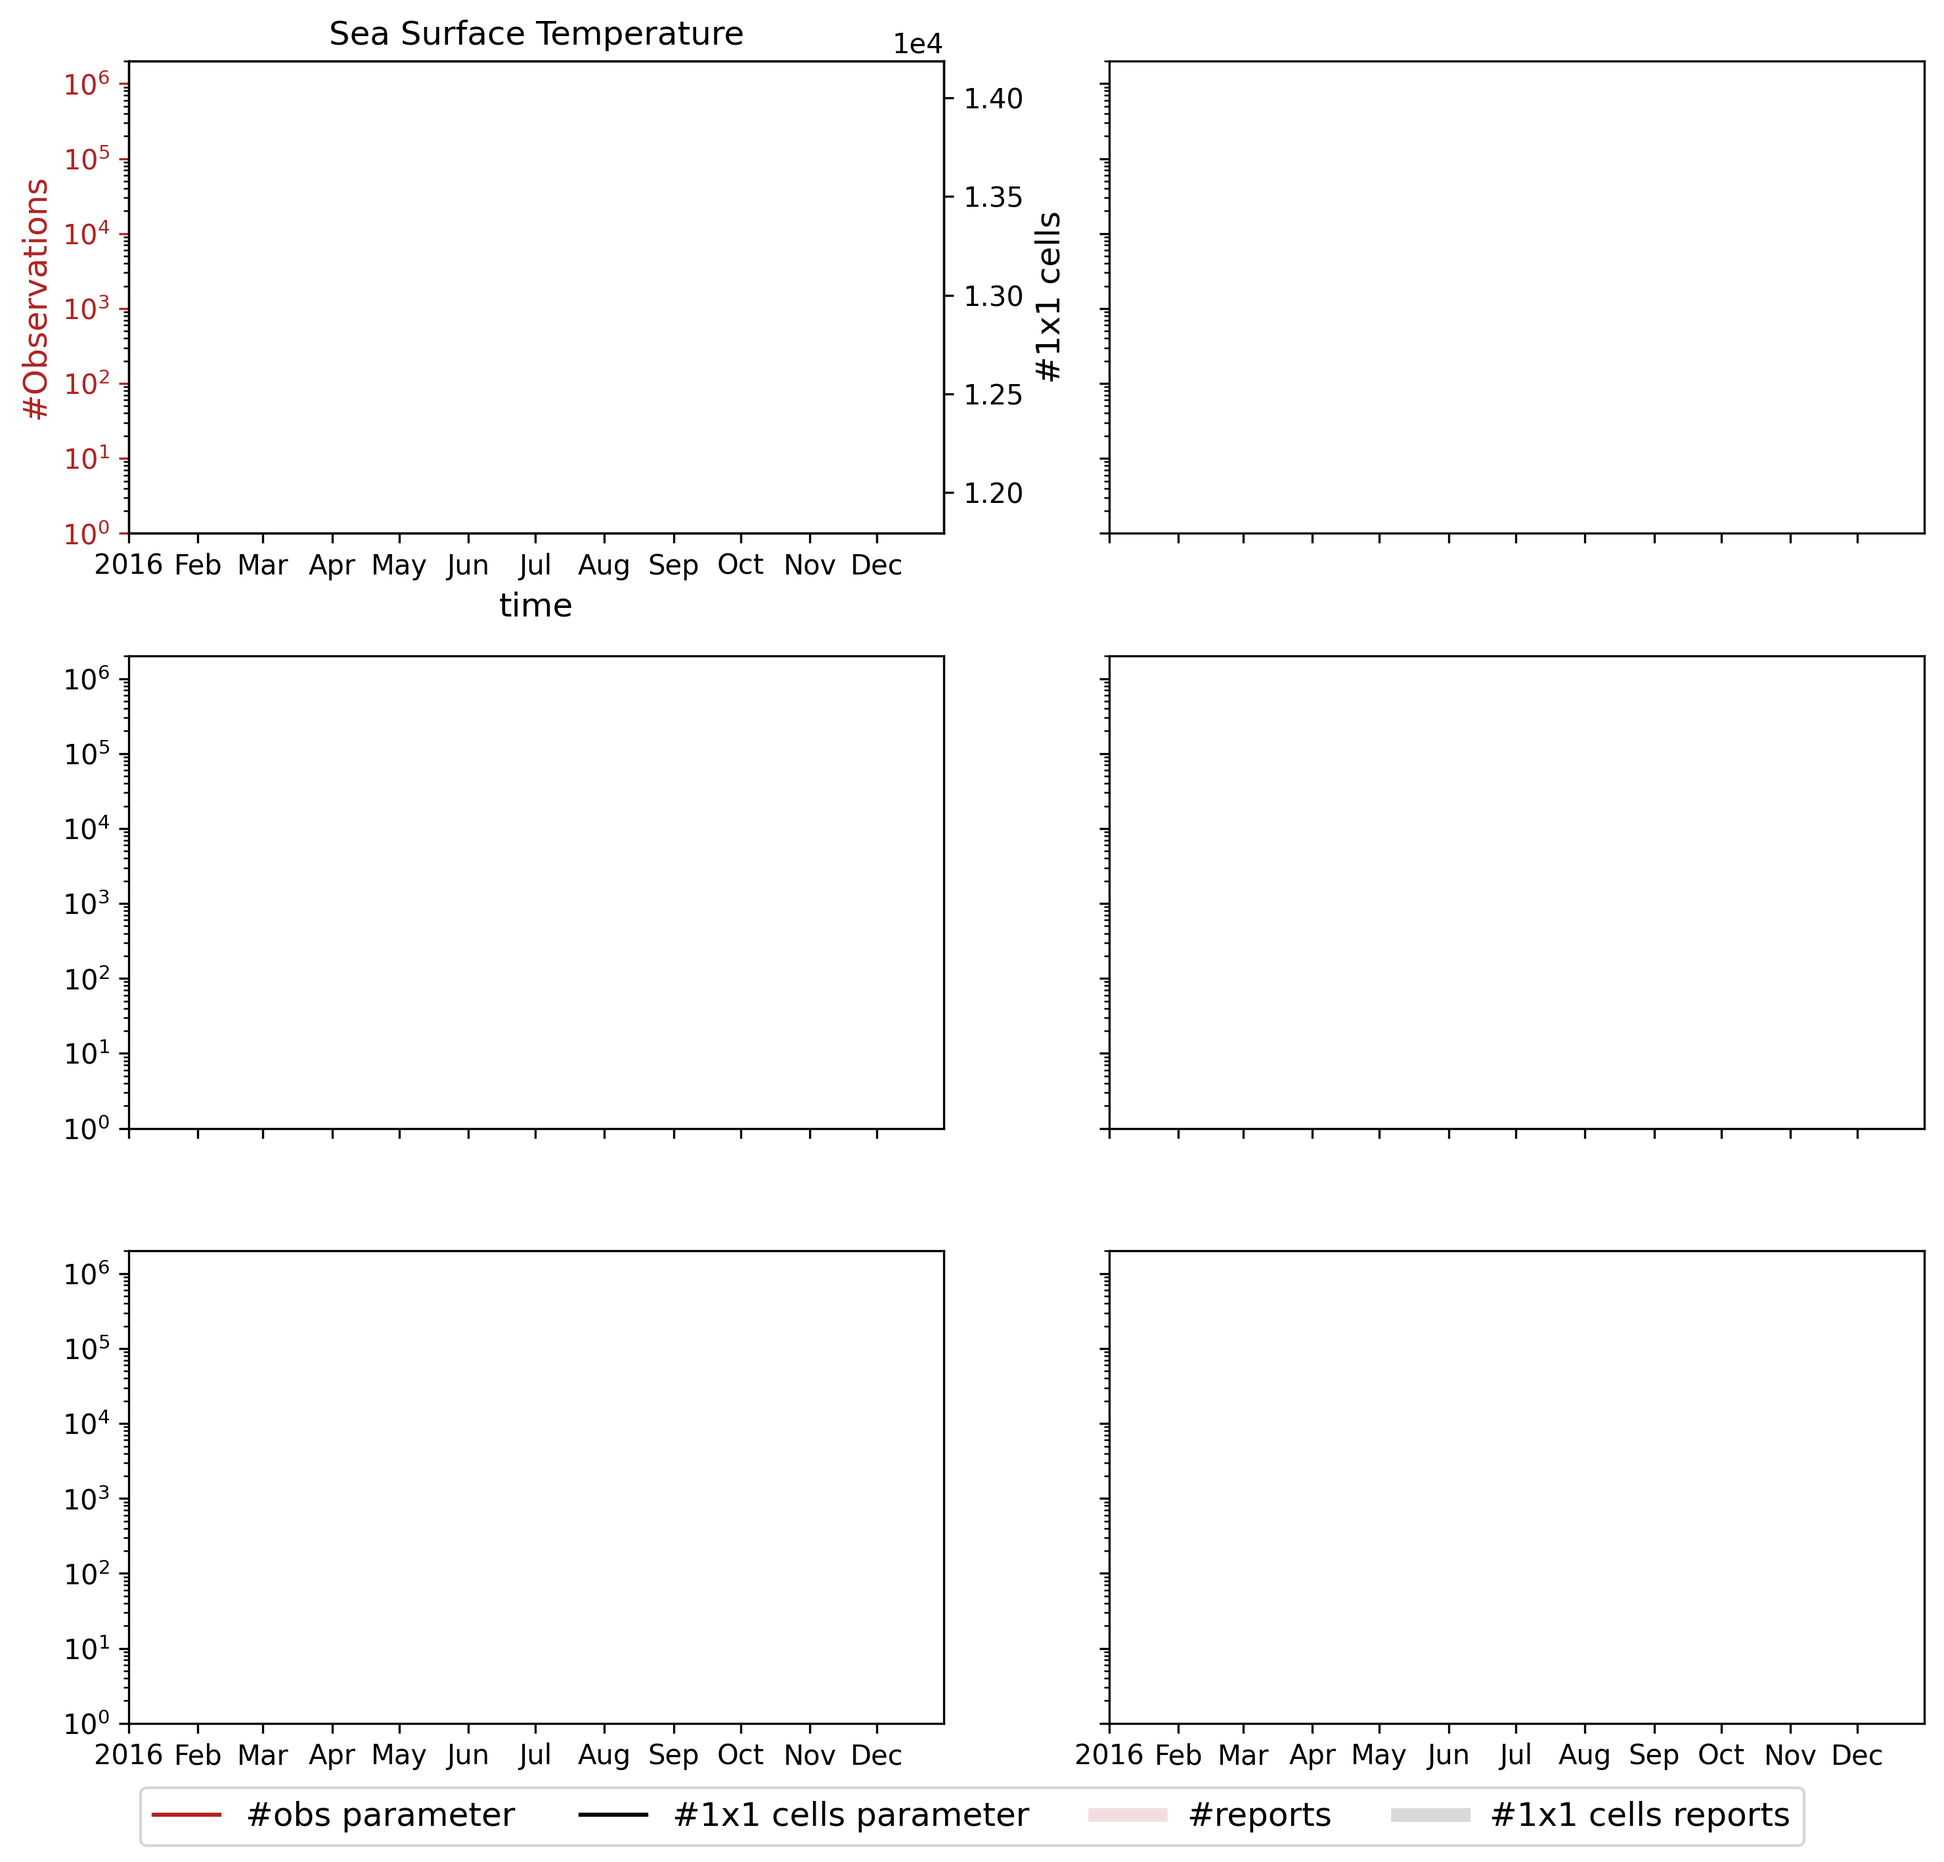
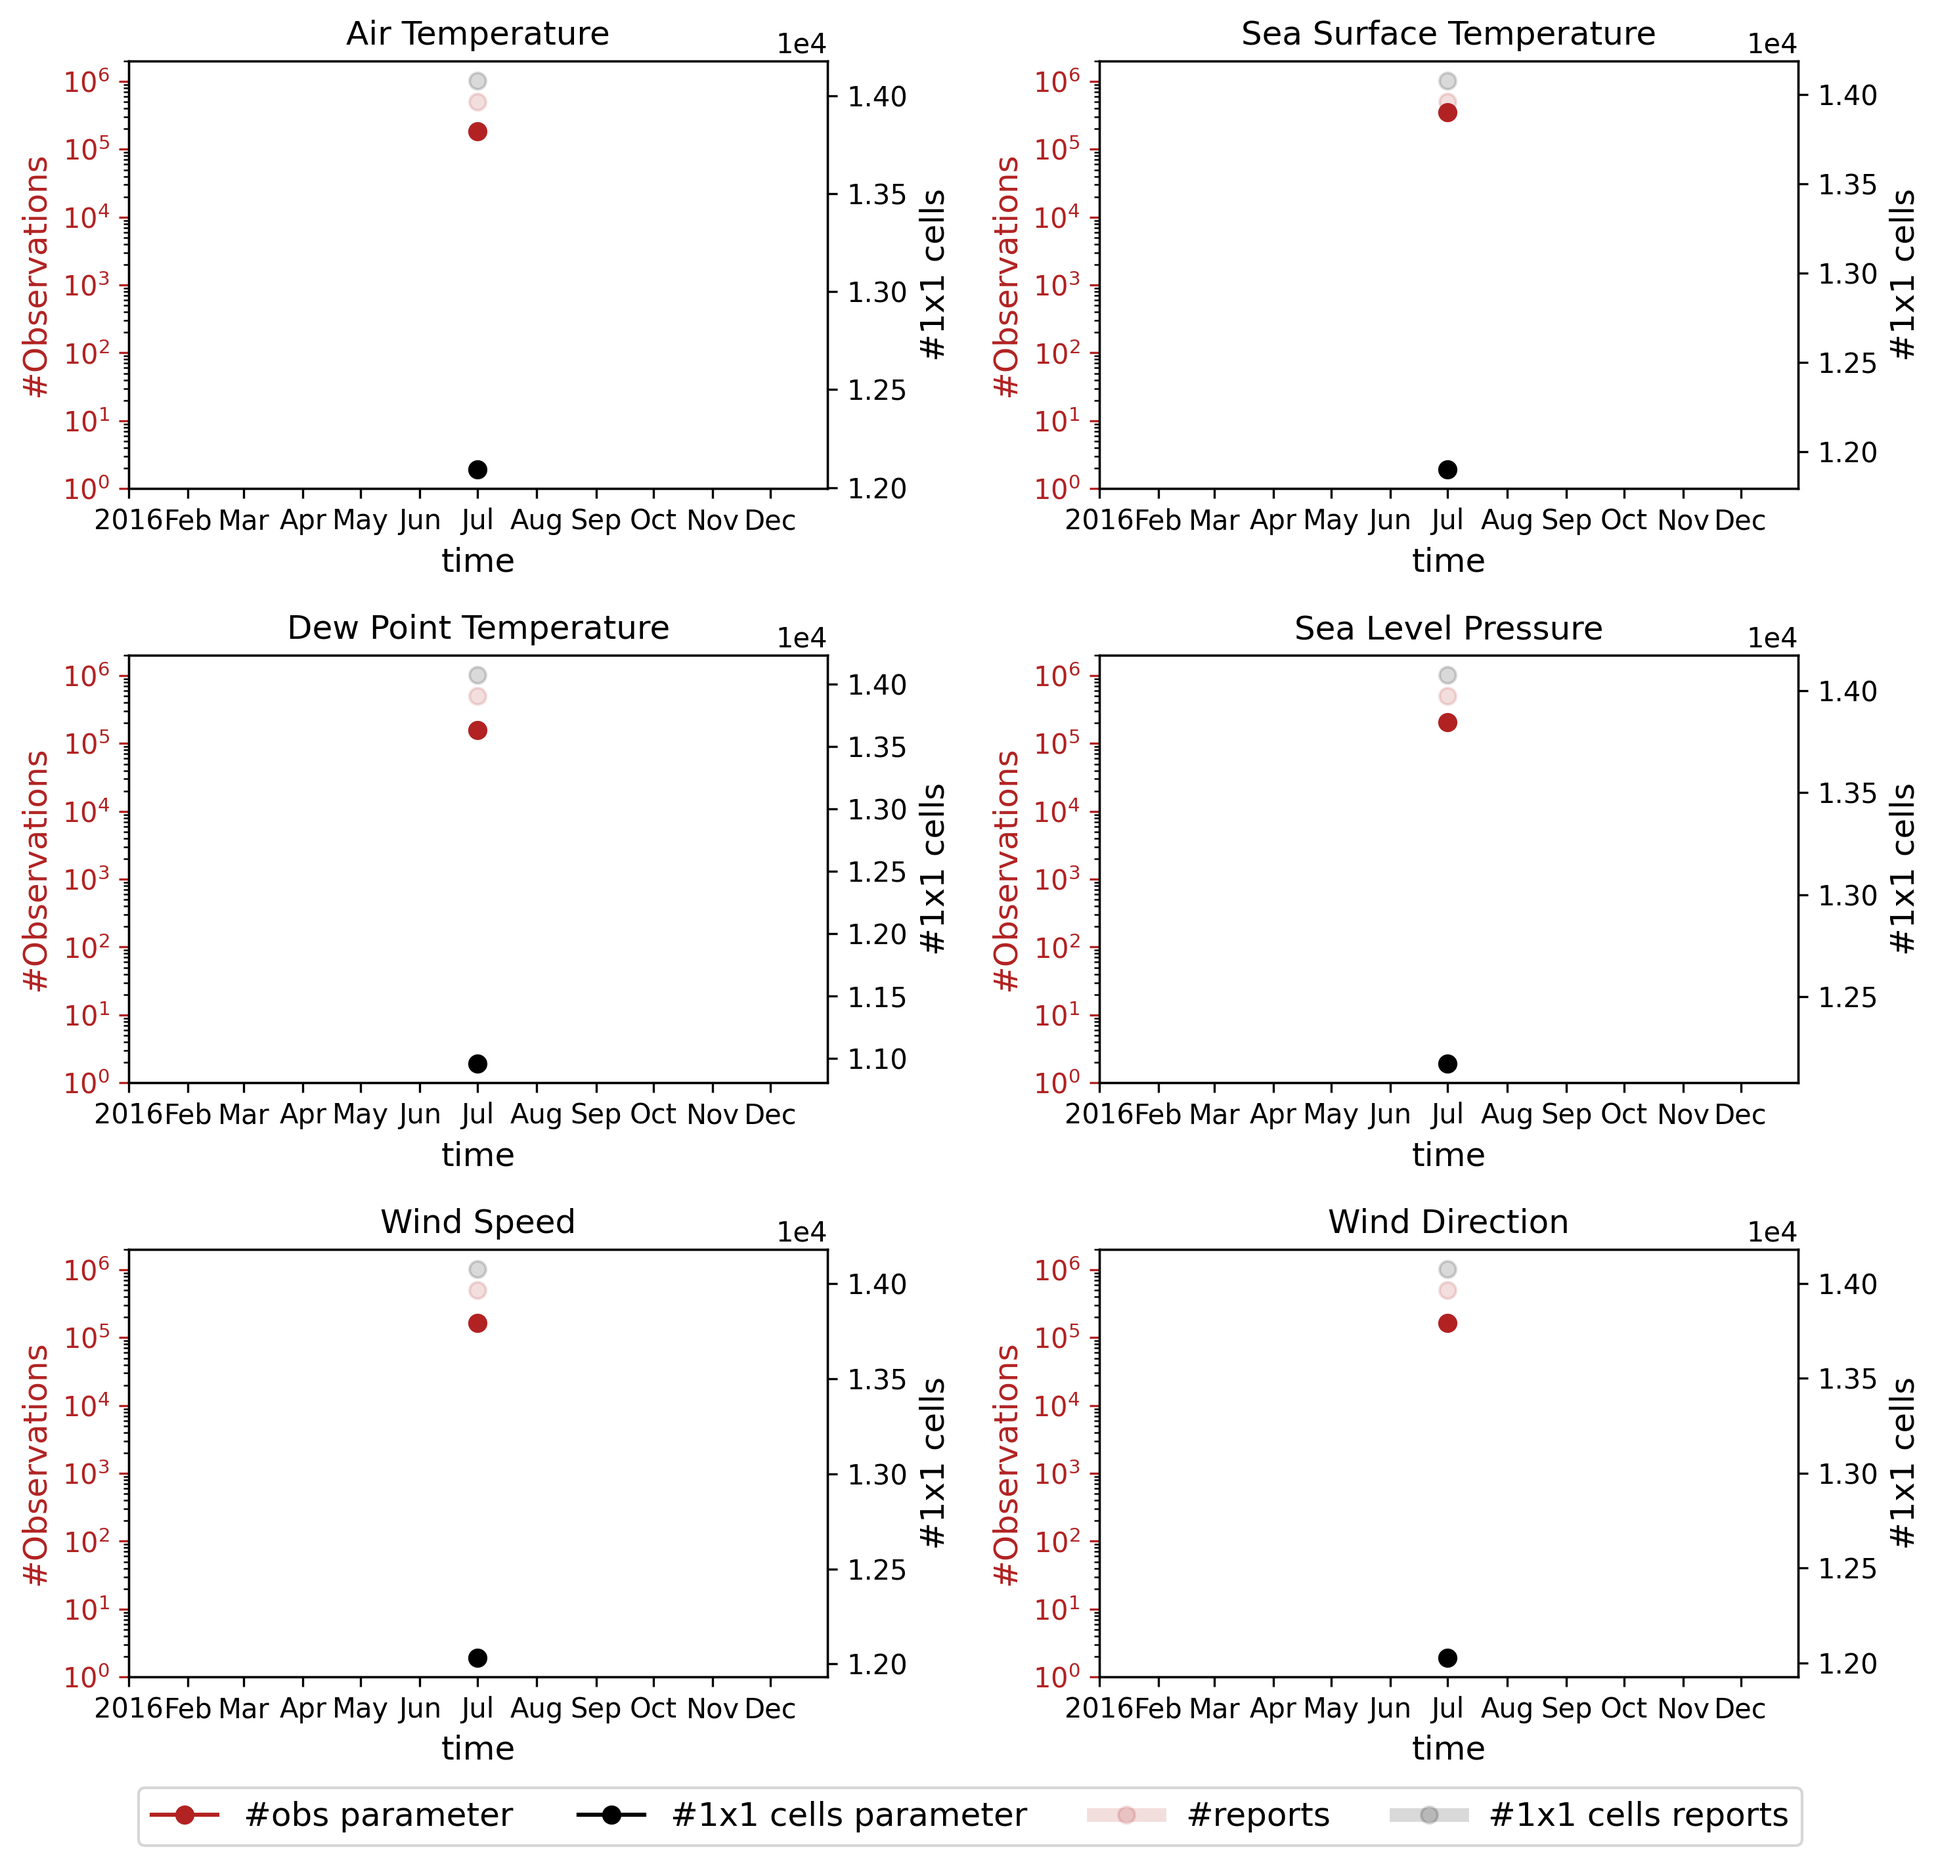
add markers

diff --git a/figures/ecv_coverage_ts_plot_grid.py b/figures/ecv_coverage_ts_plot_grid.py
@@ -72,7 +72,6 @@ if __name__ == "__main__":
         header_n_cells = header_n_cells.rolling(time=DTMEAN, center=True).mean()
         header_n_reports = header_n_reports.rolling(time=DTMEAN, center=True).mean()
         
-    
     f, ax = plt.subplots(3, 2, figsize=(10,10),sharex=True,sharey=True)# 
     ax2 = ax.copy()
     for i,table in enumerate(observation_tables):
@@ -89,13 +88,12 @@ if __name__ == "__main__":
             logging.info('...filtering time series')
             n_cells = n_cells.rolling(time=DTMEAN, center=True).mean()
             n_reports = n_reports.rolling(time=DTMEAN, center=True).mean()
-           
         logging.info('...plotting time series')
-        header_n_reports.plot(ax=ax[r,c],color=n_reports_color,zorder = 1 ,label='#reports',linewidth=5,alpha=0.15)
-        n_reports.plot(ax=ax[r,c],color=n_reports_color,zorder = 3 ,label='#obs parameter')
+        header_n_reports.plot(ax=ax[r,c],color=n_reports_color,zorder = 1 ,label='#reports',linewidth=5,alpha=0.15, marker="o")
+        n_reports.plot(ax=ax[r,c],color=n_reports_color,zorder = 3 ,label='#obs parameter', marker="o")
         ax2[r,c] = ax[r,c].twinx()
-        header_n_cells.plot(ax=ax2[r,c],color=n_cells_color,linewidth=5,alpha=0.15,zorder = 2,label='#1x1 cells reports')
-        n_cells.plot(ax=ax2[r,c],color=n_cells_color,zorder = 4, label='#1x1 cells parameter')
+        header_n_cells.plot(ax=ax2[r,c],color=n_cells_color,linewidth=5,alpha=0.15,zorder = 2,label='#1x1 cells reports', marker="o")
+        n_cells.plot(ax=ax2[r,c],color=n_cells_color,zorder = 4, label='#1x1 cells parameter', marker="o")
         
         ax2[r,c].set_ylabel('#1x1 cells', color=n_cells_color)
         ax2[r,c].tick_params(axis='y', colors=n_cells_color)
